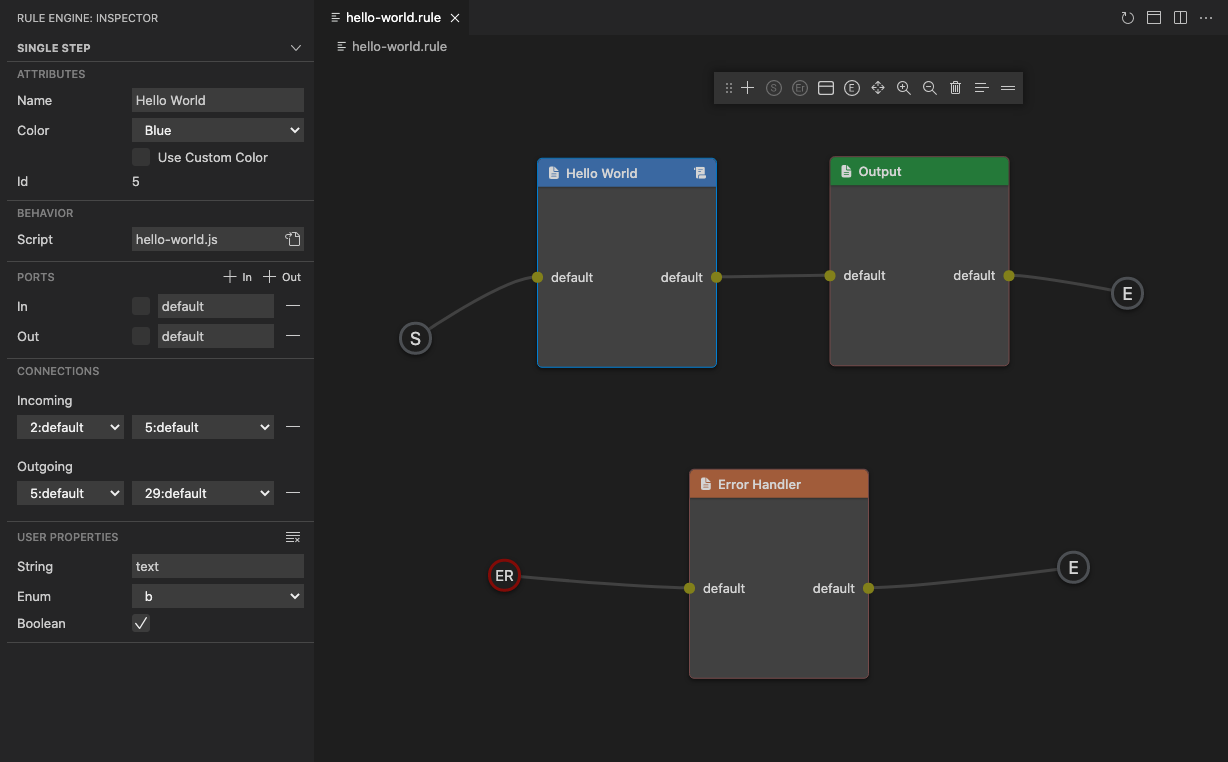
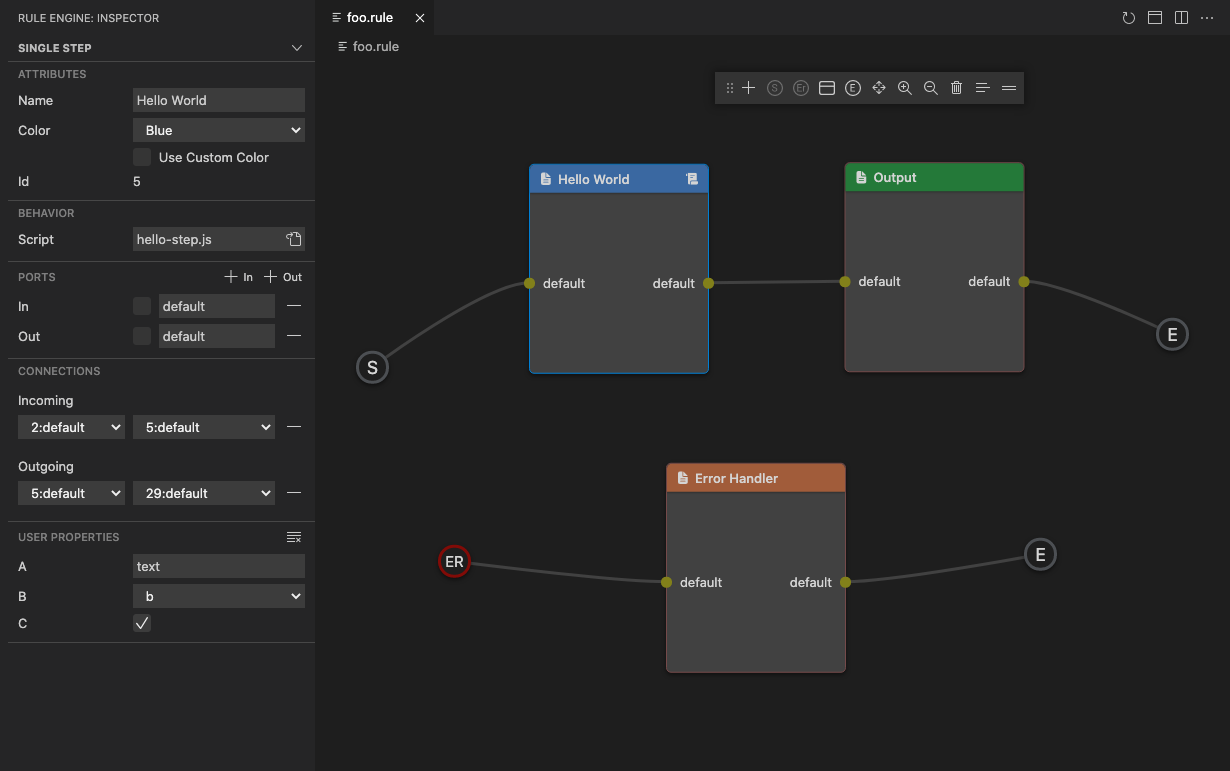
Docs

diff --git a/docs/.vuepress/styles/index.scss b/docs/.vuepress/styles/index.scss
@@ -6,3 +6,18 @@
   // custom container colors
   --c-tip: #39A2DB;
 }
+
+html.dark {
+  --c-bg: #1e1e1e;
+  --c-text: rgba(255, 255, 255, .87);
+  --code-bg-color: #242424;
+  --c-border: rgba(84, 84, 84, .48);
+
+  --c-text-light: rgba(255, 255, 255, .87);
+  --c-text-lighter: rgba(235, 235, 235, .6);
+  --c-text-lightest: rgba(235, 235, 235, .38);
+}
+
+.home .hero .description {
+  font-size: 1.4rem;
+}

diff --git a/docs/README.md b/docs/README.md
@@ -33,11 +33,11 @@ yarn add @ruleenginejs/runtime
 
 ## Usage
 
-hello-world.rule
+foo.rule
 
-![Hello World](/hello.png)
+![Hello](/hello.png)
 
-hello-world.js
+hello-step.js
 
 ```javascript
 export default (context, next) => {
@@ -51,8 +51,7 @@ App.js
 Use the [rollup plugin](https://github.com/ruleenginejs/rollup-plugin-rule), [webpack loader](https://github.com/ruleenginejs/rule-loader) or [VS Code Extension](https://marketplace.visualstudio.com/items?itemName=ruleengine.vscode-ruleengine-compiler) to compile the rule file into javascript.
 
 ```javascript
-import helloWorld from './hello-world.rule';
+import foo from './foo.rule';
 
-helloWorld.execute()
-  .catch(e => console.error(e));
+foo.execute().catch(e => console.error(e));
 ```
